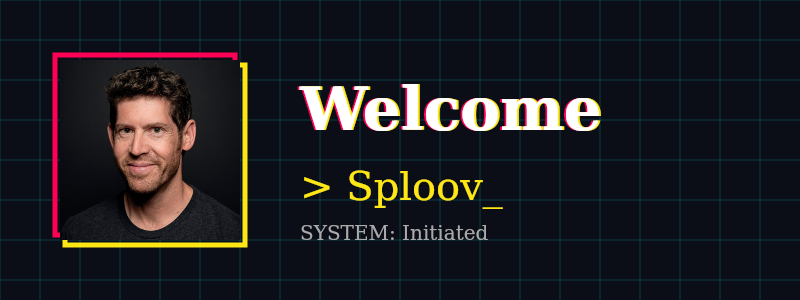
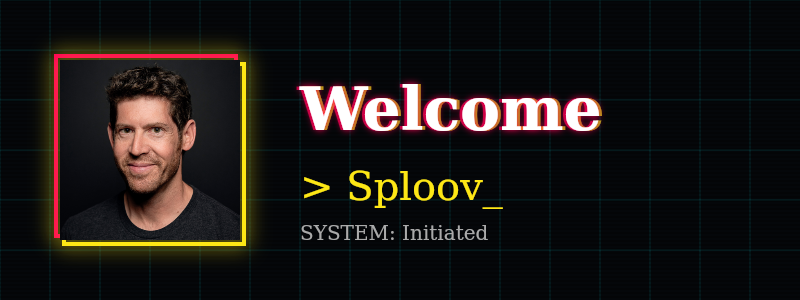
fix: enhance visuals for Classic, Modern, and Cyberpunk themes

diff --git a/src/Welcomize.ts b/src/Welcomize.ts
@@ -85,7 +85,11 @@ export class Welcomize {
         if (background) {
             ctx.drawImage(background, 0, 0, this.width, this.height);
         } else {
-            ctx.fillStyle = this.options.backgroundColor!;
+            // Radial Gradient for depth instead of flat color
+            const gradient = ctx.createRadialGradient(this.width / 2, this.height / 2, 0, this.width / 2, this.height / 2, this.width);
+            gradient.addColorStop(0, this.options.backgroundColor!);
+            gradient.addColorStop(1, '#000000'); // darken edges
+            ctx.fillStyle = gradient;
             ctx.fillRect(0, 0, this.width, this.height);
         }
 
@@ -114,7 +118,10 @@ export class Welcomize {
         
         // Welcome
         ctx.font = `bold 60px "${fontFamily}"`;
+        ctx.shadowColor = 'rgba(0,0,0,0.5)';
+        ctx.shadowBlur = 4;
         ctx.fillText(this.options.title!, 300, 130);
+        ctx.shadowBlur = 0;
 
         // Username
         ctx.font = `40px "${fontFamily}"`;
@@ -130,32 +137,56 @@ export class Welcomize {
         // Background
         if (background) {
             ctx.drawImage(background, 0, 0, this.width, this.height);
-            // Add a slight dark overlay to ensure text readability
+            // Add a slight dark overlay
             ctx.fillStyle = 'rgba(0, 0, 0, 0.4)';
             ctx.fillRect(0, 0, this.width, this.height);
         } else {
-            // Gradient Background
+            // Complex Gradient Background
             const gradient = ctx.createLinearGradient(0, 0, this.width, this.height);
-            gradient.addColorStop(0, '#0F2027');
-            gradient.addColorStop(0.5, '#203A43');
-            gradient.addColorStop(1, '#2C5364');
+            gradient.addColorStop(0, '#1cb5e0');
+            gradient.addColorStop(1, '#000046');
             ctx.fillStyle = gradient;
             ctx.fillRect(0, 0, this.width, this.height);
 
-            // Decoration
+            // Abstract Shapes (Soft Overlay)
+            ctx.globalCompositeOperation = 'overlay';
             ctx.fillStyle = 'rgba(255, 255, 255, 0.1)';
             ctx.beginPath();
-            ctx.arc(this.width, 0, 300, 0, Math.PI * 2);
+            ctx.arc(0, 0, 400, 0, Math.PI * 2);
             ctx.fill();
             ctx.beginPath();
-            ctx.arc(0, this.height, 200, 0, Math.PI * 2);
+            ctx.arc(this.width, this.height, 300, 0, Math.PI * 2);
             ctx.fill();
+            ctx.globalCompositeOperation = 'source-over';
         }
 
+        // Glassmorphism Card
+        const cardWidth = this.width - 100;
+        const cardHeight = this.height - 60;
+        const cardX = 50;
+        const cardY = 30;
+
+        ctx.save();
+        ctx.fillStyle = 'rgba(255, 255, 255, 0.1)';
+        ctx.shadowColor = 'rgba(0, 0, 0, 0.2)';
+        ctx.shadowBlur = 20;
+        ctx.shadowOffsetY = 10;
+        
+        // Draw rounded rect manually for glass box
+        ctx.beginPath();
+        ctx.roundRect(cardX, cardY, cardWidth, cardHeight, 20);
+        ctx.fill();
+        
+        // Glass border
+        ctx.strokeStyle = 'rgba(255, 255, 255, 0.2)';
+        ctx.lineWidth = 1;
+        ctx.stroke();
+        ctx.restore();
+
         // Avatar (Centered)
-        const avatarRadius = 90;
+        const avatarRadius = 80;
         const avatarX = this.width / 2;
-        const avatarY = 110;
+        const avatarY = 100;
 
         // Glow
         ctx.shadowColor = this.options.borderColor!;
@@ -169,11 +200,13 @@ export class Welcomize {
         ctx.textAlign = 'center';
 
         ctx.font = `bold 50px "${fontFamily}"`;
-        ctx.fillText(`Welcome, ${this.options.username}`, this.width / 2, 240);
+        ctx.shadowColor = 'rgba(0,0,0,0.3)';
+        ctx.shadowBlur = 10;
+        ctx.fillText(`Welcome, ${this.options.username}`, this.width / 2, 230);
 
         ctx.font = `25px "${fontFamily}"`;
-        ctx.fillStyle = '#AAAAAA';
-        ctx.fillText(this.options.subtitle!, this.width / 2, 275);
+        ctx.fillStyle = '#EEEEEE';
+        ctx.fillText(this.options.subtitle!, this.width / 2, 265);
     }
 
     private drawClean(ctx: SKRSContext2D, avatar: any, fontFamily: string, background?: any) {
@@ -223,23 +256,32 @@ export class Welcomize {
         if (background) {
             ctx.drawImage(background, 0, 0, this.width, this.height);
         } else {
-            ctx.fillStyle = '#0b0d17';
+            ctx.fillStyle = '#05070a'; // Darker background
             ctx.fillRect(0, 0, this.width, this.height);
             
-            // Grid lines
-            ctx.strokeStyle = 'rgba(0, 255, 255, 0.1)';
-            ctx.lineWidth = 2;
-            for (let i = 0; i < this.width; i += 40) {
+            // Grid lines (Perspective)
+            ctx.strokeStyle = 'rgba(0, 255, 255, 0.15)';
+            ctx.lineWidth = 1;
+            
+            // Vertical lines
+            for (let i = 0; i < this.width; i += 50) {
                 ctx.beginPath();
                 ctx.moveTo(i, 0);
                 ctx.lineTo(i, this.height);
                 ctx.stroke();
             }
-            for (let i = 0; i < this.height; i += 40) {
+            // Horizontal lines
+            for (let i = 0; i < this.height; i += 50) {
                 ctx.beginPath();
                 ctx.moveTo(0, i);
                 ctx.lineTo(this.width, i);
                 ctx.stroke();
+            }
+
+            // Scanlines
+            ctx.fillStyle = 'rgba(0, 0, 0, 0.3)';
+            for (let i = 0; i < this.height; i += 4) {
+                ctx.fillRect(0, i, this.width, 2);
             }
         }
 
@@ -251,12 +293,15 @@ export class Welcomize {
         const avatarX = 60;
         const avatarY = (this.height - avatarSize) / 2;
 
+        ctx.shadowColor = neonColor;
+        ctx.shadowBlur = 15;
         ctx.strokeStyle = secondaryNeon;
-        ctx.lineWidth = 5;
-        ctx.strokeRect(avatarX - 5, avatarY - 5, avatarSize, avatarSize);
+        ctx.lineWidth = 4;
+        ctx.strokeRect(avatarX - 4, avatarY - 4, avatarSize, avatarSize);
         
         ctx.strokeStyle = neonColor;
-        ctx.strokeRect(avatarX + 5, avatarY + 5, avatarSize, avatarSize);
+        ctx.strokeRect(avatarX + 4, avatarY + 4, avatarSize, avatarSize);
+        ctx.shadowBlur = 0;
 
         ctx.drawImage(avatar, avatarX, avatarY, avatarSize, avatarSize);
 
@@ -268,15 +313,20 @@ export class Welcomize {
         // Glitch 1
         ctx.fillStyle = secondaryNeon;
         ctx.font = `bold 60px "${fontFamily}"`;
-        ctx.fillText(this.options.title!, titleX - 2, titleY);
+        ctx.globalAlpha = 0.7;
+        ctx.fillText(this.options.title!, titleX - 3, titleY);
 
         // Glitch 2
         ctx.fillStyle = neonColor;
-        ctx.fillText(this.options.title!, titleX + 2, titleY);
+        ctx.fillText(this.options.title!, titleX + 3, titleY);
+        ctx.globalAlpha = 1.0;
 
         // Main Text
         ctx.fillStyle = '#FFFFFF';
+        ctx.shadowColor = secondaryNeon;
+        ctx.shadowBlur = 5;
         ctx.fillText(this.options.title!, titleX, titleY);
+        ctx.shadowBlur = 0;
 
         // Username
         ctx.font = `40px "${fontFamily}"`;
